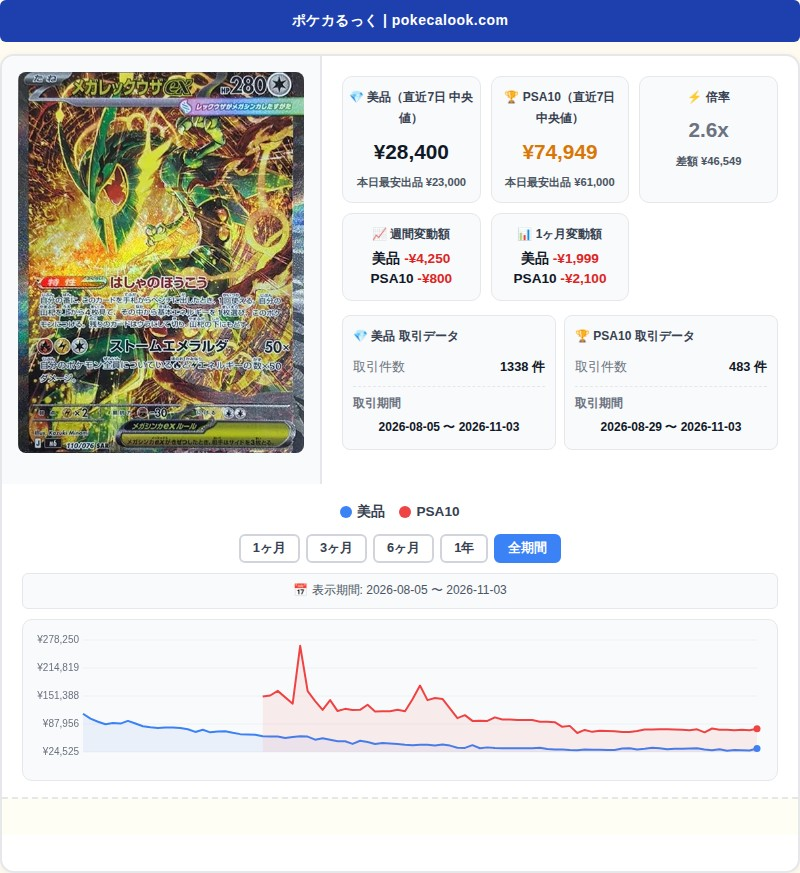
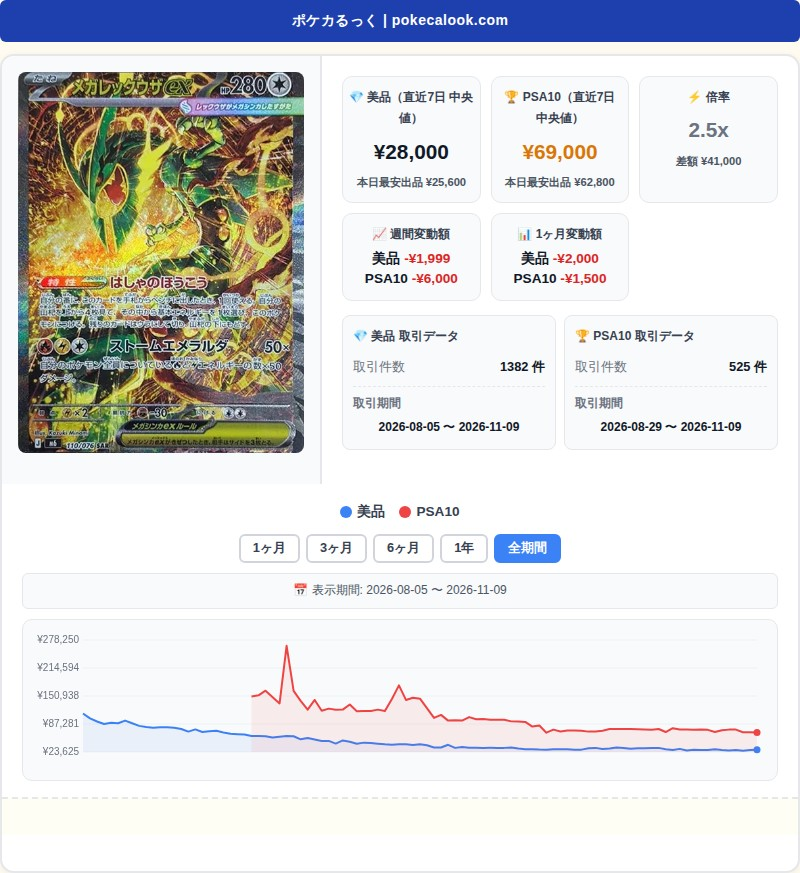
Update tweet texts 2026-11-10

diff --git a/tweets.html b/tweets.html
@@ -1,34 +1,22 @@
-<!DOCTYPE html><html lang="ja"><head><meta charset="utf-8"><meta name="viewport" content="width=device-width,initial-scale=1"><meta name="robots" content="noindex,nofollow"><title>Xポスト文 - ポケカるっく</title><style>*{margin:0;padding:0;box-sizing:border-box}body{font-family:-apple-system,sans-serif;background:#0f172a;color:#e2e8f0;padding:20px}.wrap{max-width:900px;margin:0 auto}h1{font-size:1.3rem;margin-bottom:8px;color:#38bdf8}.meta{color:#64748b;font-size:.8rem;margin-bottom:20px}.grid{display:flex;flex-direction:column;gap:16px}.tw{background:#1e293b;border:1px solid #334155;border-radius:12px;padding:16px}.tw-body{white-space:pre-wrap;font-size:.85rem;line-height:1.6;font-family:inherit;color:#f1f5f9;margin-bottom:12px}.tw-btns{display:flex;gap:8px;flex-wrap:wrap}.tw-copy,.tw-dl{padding:8px 16px;background:#2563eb;color:#fff;border:none;border-radius:8px;font-size:.8rem;font-weight:600;cursor:pointer;text-decoration:none;display:inline-block}.tw-copy:hover{background:#1d4ed8}.tw-copy.done{background:#059669}.tw-dl{background:#7c3aed;margin-top:8px}.char-count{color:#64748b;font-size:.75rem;margin-top:4px}</style></head><body><div class="wrap"><h1>📝 今日のXポスト文</h1><p class="meta">生成日時: 2026/11/09 07:42 JST ｜ 画像付きで投稿</p><div class="grid"><div class="tw"><pre class="tw-body" id="tw0">📊 ポケカ指数アップデート
+<!DOCTYPE html><html lang="ja"><head><meta charset="utf-8"><meta name="viewport" content="width=device-width,initial-scale=1"><meta name="robots" content="noindex,nofollow"><title>Xポスト文 - ポケカるっく</title><style>*{margin:0;padding:0;box-sizing:border-box}body{font-family:-apple-system,sans-serif;background:#0f172a;color:#e2e8f0;padding:20px}.wrap{max-width:900px;margin:0 auto}h1{font-size:1.3rem;margin-bottom:8px;color:#38bdf8}.meta{color:#64748b;font-size:.8rem;margin-bottom:20px}.grid{display:flex;flex-direction:column;gap:16px}.tw{background:#1e293b;border:1px solid #334155;border-radius:12px;padding:16px}.tw-body{white-space:pre-wrap;font-size:.85rem;line-height:1.6;font-family:inherit;color:#f1f5f9;margin-bottom:12px}.tw-btns{display:flex;gap:8px;flex-wrap:wrap}.tw-copy,.tw-dl{padding:8px 16px;background:#2563eb;color:#fff;border:none;border-radius:8px;font-size:.8rem;font-weight:600;cursor:pointer;text-decoration:none;display:inline-block}.tw-copy:hover{background:#1d4ed8}.tw-copy.done{background:#059669}.tw-dl{background:#7c3aed;margin-top:8px}.char-count{color:#64748b;font-size:.75rem;margin-top:4px}</style></head><body><div class="wrap"><h1>📝 今日のXポスト文</h1><p class="meta">生成日時: 2026/11/10 11:12 JST ｜ 画像付きで投稿</p><div class="grid"><div class="tw"><pre class="tw-body" id="tw0">📊 ポケカ指数アップデート
 
-11月8日時点
-✨ 美品指数: ¥11,000（前日比+¥1,001 / +10.01%）
-💎 PSA10指数: ¥85,000（前日比+¥2,000 / +2.41%）</pre>
+11月10日時点
+✨ 美品指数: ¥10,912（前日比-¥88 / -0.8%）
+💎 PSA10指数: ¥87,000（前日比+¥350 / +0.4%）</pre>
 <div class="tw-btns"><button class="tw-copy" onclick="copyTw(0)">📋 ポスト文コピー</button></div>
 <div style="margin-top:8px"><img src="images/tw_index.jpg" style="max-width:300px;max-height:400px;object-fit:cover;border-radius:8px"><br><a href="images/tw_index.jpg" download="tweet_0.jpg" class="tw-dl">📥 画像を保存</a></div></div>
-<div class="tw"><pre class="tw-body" id="tw1">⚡ ピカチュウex SAR、PSA10に大きな動き
+<div class="tw"><pre class="tw-body" id="tw1">📉 リザードン [M6a 137/103]、美品・PSA10ともに下落中
 
-✨ 美品: ¥5,500（週間-¥300）
-💎 PSA10: ¥90,500（週間+¥84,800）</pre>
+💎 PSA10: 15.0万（週間-¥50,001）
+✨ 美品: 1.8万（週間-¥888）</pre>
 <div class="tw-btns"><button class="tw-copy" onclick="copyTw(1)">📋 ポスト文コピー</button></div>
-<div style="margin-top:8px"><img src="images/tw_882279.jpg" style="max-width:300px;max-height:400px;object-fit:cover;border-radius:8px"><br><a href="images/tw_882279.jpg" download="tweet_1.jpg" class="tw-dl">📥 画像を保存</a></div></div>
-<div class="tw"><pre class="tw-body" id="tw2">⚡ ルギア [M6a 142/103]、直近の値動きが気になります
+<div style="margin-top:8px"><img src="images/tw_882281.jpg" style="max-width:300px;max-height:400px;object-fit:cover;border-radius:8px"><br><a href="images/tw_882281.jpg" download="tweet_1.jpg" class="tw-dl">📥 画像を保存</a></div></div>
+<div class="tw"><pre class="tw-body" id="tw2">🔍 メガレックウザex SAR、この1週間で変化
 
-💎 PSA10: ¥150,000（1週間で+¥20,000）
-✨ 美品: ¥18,888（1週間で+¥888）</pre>
+✨ 美品: ¥28,000（1週間で±¥0）
+💎 PSA10: ¥69,000（1週間で-¥5,900）</pre>
 <div class="tw-btns"><button class="tw-copy" onclick="copyTw(2)">📋 ポスト文コピー</button></div>
-<div style="margin-top:8px"><img src="images/tw_886017.jpg" style="max-width:300px;max-height:400px;object-fit:cover;border-radius:8px"><br><a href="images/tw_886017.jpg" download="tweet_2.jpg" class="tw-dl">📥 画像を保存</a></div></div>
-<div class="tw"><pre class="tw-body" id="tw3">📦 特別セット「30th CELEBRATION FUTURI…、下落が続いています⬇
-
-💰 現在の中央値: ¥58,000（週間-¥4,200）
-🔄 週間209個取引 / 出品数1190件</pre>
-<div class="tw-btns"><button class="tw-copy" onclick="copyTw(3)">📋 ポスト文コピー</button></div>
-<div style="margin-top:8px"><img src="images/tw_box_881424.jpg" style="max-width:300px;max-height:400px;object-fit:cover;border-radius:8px"><br><a href="images/tw_box_881424.jpg" download="tweet_3.jpg" class="tw-dl">📥 画像を保存</a></div></div>
-<div class="tw"><pre class="tw-body" id="tw4">📦 構築デッキ「30th CELEBRATION プレミアムデ…、下落が続いています⬇
-
-💰 現在の中央値: ¥15,500（週間-¥2,500）
-🔄 週間808個取引 / 出品数965件</pre>
-<div class="tw-btns"><button class="tw-copy" onclick="copyTw(4)">📋 ポスト文コピー</button></div>
-<div style="margin-top:8px"><img src="images/tw_box_881423.jpg" style="max-width:300px;max-height:400px;object-fit:cover;border-radius:8px"><br><a href="images/tw_box_881423.jpg" download="tweet_4.jpg" class="tw-dl">📥 画像を保存</a></div></div>
+<div style="margin-top:8px"><img src="images/tw_868612.jpg" style="max-width:300px;max-height:400px;object-fit:cover;border-radius:8px"><br><a href="images/tw_868612.jpg" download="tweet_2.jpg" class="tw-dl">📥 画像を保存</a></div></div>
 </div></div><script>
 function copyTw(i){const el=document.getElementById('tw'+i);const ta=document.createElement('textarea');ta.value=el.textContent;ta.style.cssText='position:fixed;left:-9999px';document.body.appendChild(ta);ta.select();document.execCommand('copy');document.body.removeChild(ta);const btn=el.parentElement.querySelector('.tw-copy');btn.textContent='✅ コピー済み';btn.classList.add('done');setTimeout(()=>{btn.textContent='📋 ポスト文コピー';btn.classList.remove('done')},2000)}
 </script></body></html>
